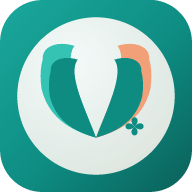
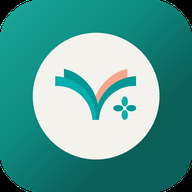
v3.6.0: ออกแบบไอคอนแอพใหม่จากตรารพ.ไฟล์จริง
ตอนนี้มีไฟล์ตรารพ.จริงแล้ว (v3.5.0) จึงนำมาประยุกต์เป็นไอคอนแอพแทนดีไซน์ที่
วาดเองก่อนหน้า ให้ไอคอนแอพและตรารพ.เป็นภาพเดียวกันจริง ไม่ต้องแยกสองแบบอีก

- พื้นหลัง gradient เทอร์ควอยซ์เดิม + แผ่นวงกลมสีครีมตรงกลาง + ตรารพ.ไฟล์จริง
  วางกึ่งกลาง เรนเดอร์แบบ supersampled (4x) ให้ขอบเนียนคมชัดทุกขนาด
- อัปเดต icon-192/512, apple-touch-icon, icon-maskable-192/512 (ชื่อไฟล์เดิม)

ตรวจสอบแล้ว: tsc -b ผ่าน, npm test 75/75 ผ่าน, npm run build สำเร็จ

Claude-Session: https://claude.ai/code/session_017ScEEJXyYsYTMjkuNbqpj1

diff --git a/CHANGELOG.md b/CHANGELOG.md
@@ -7,6 +7,19 @@
 > และไม่มีเครื่องมือสำหรับสร้าง GitHub Release ในชุดเครื่องมือที่ใช้งานได้ จึงใช้ไฟล์นี้ + `VERSION`
 > เป็นแหล่งความจริงของเลขเวอร์ชันแทน จนกว่าจะแก้ข้อจำกัดนั้นได้
 
+## [3.6.0] - 2026-09-08
+
+### Changed
+- **ออกแบบไอคอนแอพใหม่จากตรารพ.ไฟล์จริง** — ตอนนี้มีไฟล์ตรารพ.จริงแล้ว (ตั้งแต่ v3.5.0) จึงนำมา
+  ประยุกต์เป็นไอคอนแอพเวอร์ชันใหม่แทนดีไซน์ที่วาดเองก่อนหน้า ให้ทั้งไอคอนแอพและตรารพ.เป็นภาพ
+  เดียวกันจริง ๆ ไม่ต้องแยกกันสองแบบอีกต่อไป
+  - พื้นหลัง gradient เทอร์ควอยซ์เดิม (ให้ยังดูเป็นชุดสีเดียวกับธีมแอป) + แผ่นวงกลมสีครีมตรงกลาง
+    + ตรารพ.ไฟล์จริงวางกึ่งกลาง (แทนที่กราฟิกวาดเองก่อนหน้า) — เรนเดอร์แบบ supersampled
+    (4×) ให้ขอบวงกลม/มุมโค้งเนียนคมชัดในทุกขนาด
+  - อัปเดต icon-192/512, apple-touch-icon, icon-maskable-192/512 ทั้งชุด (ชื่อไฟล์เดิม)
+
+ตรวจสอบแล้ว: tsc -b ผ่าน, npm test 75/75 ผ่าน, npm run build สำเร็จ
+
 ## [3.5.0] - 2026-09-08
 
 ### Changed
